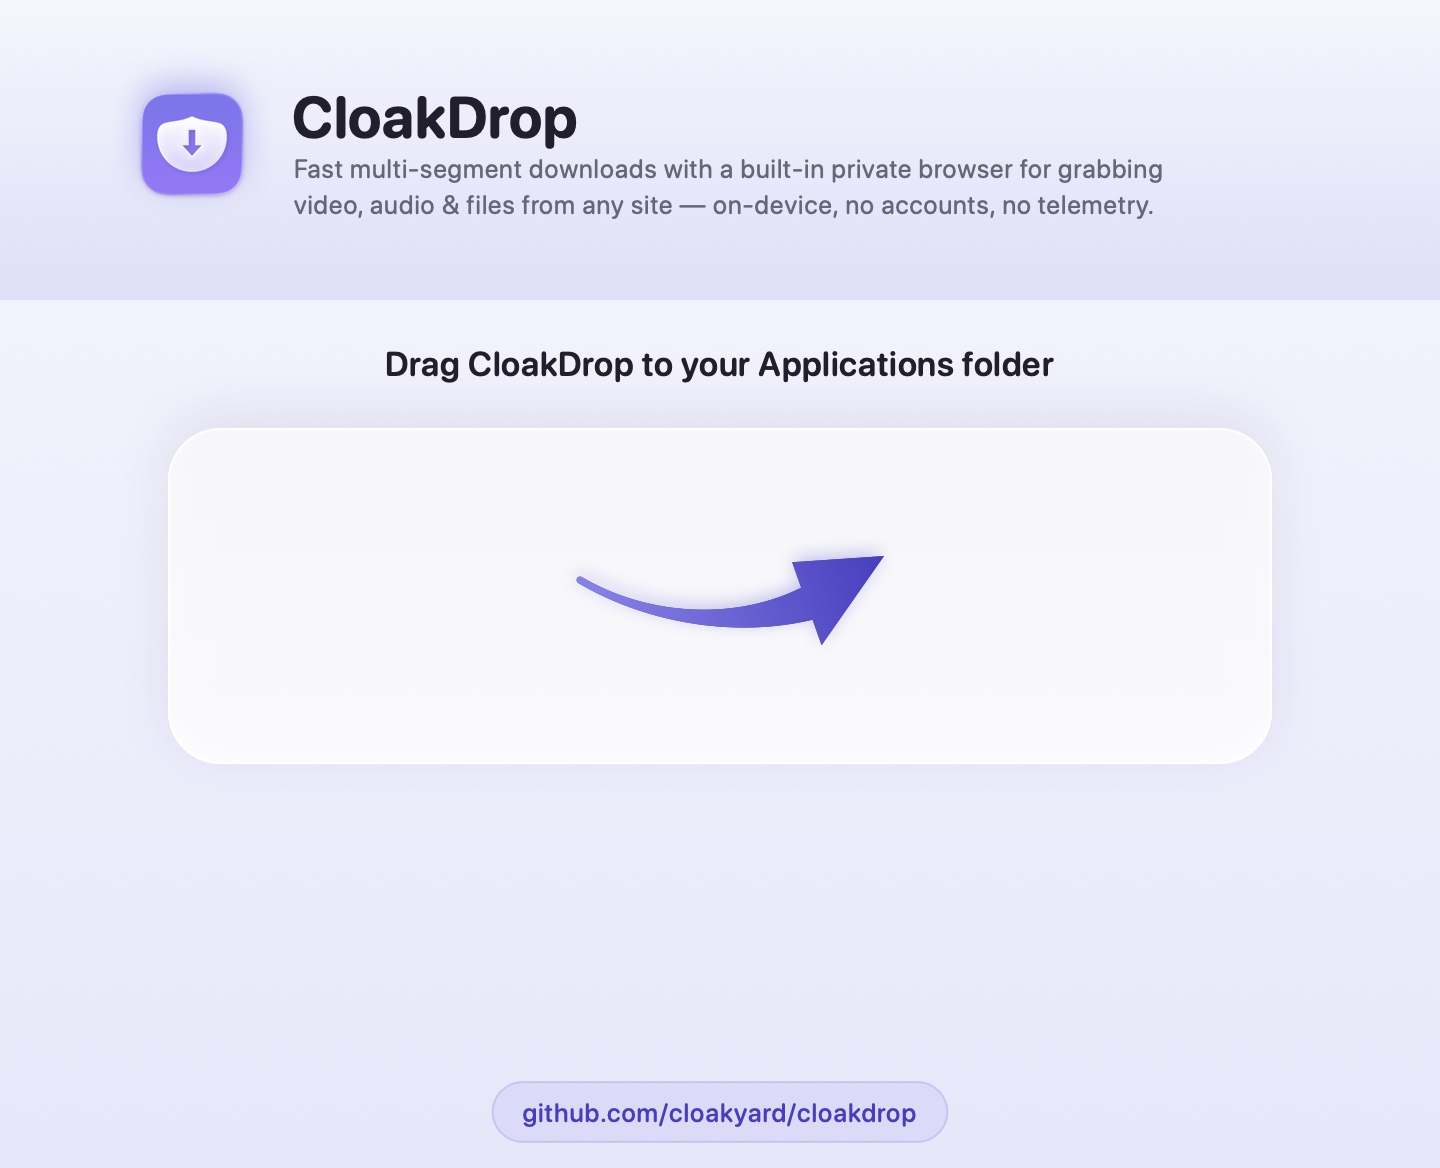
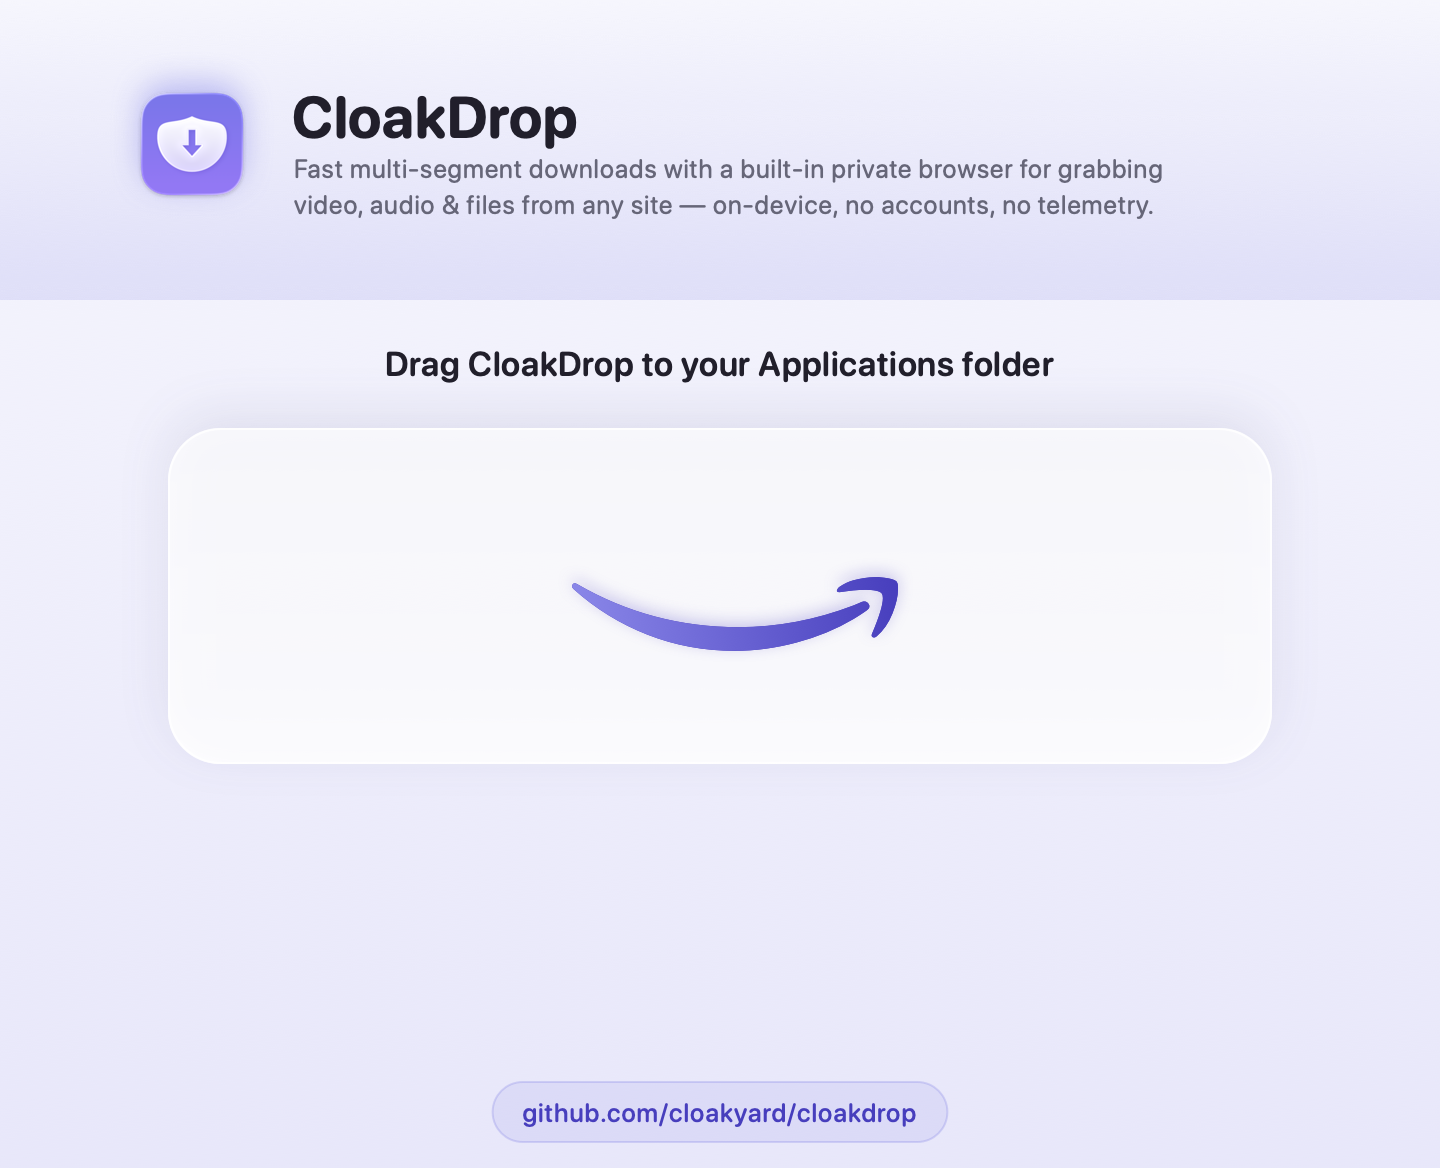
DMG: authentic Amazon-swoosh arrow, recoloured to our gradient
Replace the hand-drawn arrow with the real Amazon smile geometry (parsed from the
logo SVG via a tiny path evaluator) — rounded, tapered, with the curved up-right
arrowhead, not a sharp spike. Filled with the app icon's periwinkle→indigo
gradient (the brand tweak); the letter glyph is dropped.

Changed region(s): [[0.375, 0.4623, 0.625, 0.5548]]

diff --git a/scripts/dmg/background.swift b/scripts/dmg/background.swift
@@ -7,9 +7,9 @@
 //   swift background.swift <app-icon.png> <out.png>
 //
 // Off-centre by design: a left-aligned brand lockup (icon + SF Rounded wordmark + a two-line
-// description) in a soft brand wash across the top, a GitHub link chip top-right, then the centred
-// drag-to-install card with a tapered "smile" arrow (thin tail → thick head, an Amazon-style swoosh
-// in our own periwinkle→indigo — the same gradient as the app icon).
+// description) in a soft brand wash across the top, a GitHub link chip at the foot, then the centred
+// drag-to-install card with an Amazon-style "smile" arrow (the real Amazon swoosh geometry, recoloured
+// in our periwinkle→indigo — the same gradient as the app icon).
 
 import AppKit
 
@@ -95,85 +95,85 @@ func drawGitHubChip(_ text: String, centerY: CGFloat) {
     str.draw(at: NSPoint(x: W / 2 - tsz.width / 2, y: centerY - tsz.height / 2))
 }
 
-/// An Amazon-style "smile" swoosh: a downward-bowing curve that tapers from a thin tail to a thick
-/// head and finishes in a flared arrowhead pointing up-right. Built as a single filled ribbon (top
-/// edge → arrowhead → bottom edge) so the varying width has no seam, then filled with the icon
-/// gradient. Distinct from Amazon's mark: our own curvature, taper, arrowhead, and violet gradient.
+/// Minimal SVG-path evaluator (M/m L/l H/h V/v C/c Z/z — enough for the Amazon swoosh), appending to
+/// `path` after mapping each point through (x·scale+ox, y·scale+oy). Both the SVG and our render use
+/// a y-down space, so no axis flip is needed.
+func appendSVGPath(_ d: String, to path: NSBezierPath, scale: CGFloat, ox: CGFloat, oy: CGFloat) {
+    var tokens: [String] = [], num = ""
+    for ch in d {
+        if ch.isLetter {
+            if !num.isEmpty { tokens.append(num); num = "" }
+            tokens.append(String(ch))
+        } else if ch == "-" {
+            if !num.isEmpty { tokens.append(num) }
+            num = "-"
+        } else if ch == " " || ch == "," || ch == "\n" || ch == "\t" {
+            if !num.isEmpty { tokens.append(num); num = "" }
+        } else {
+            num.append(ch)
+        }
+    }
+    if !num.isEmpty { tokens.append(num) }
+
+    func tf(_ x: CGFloat, _ y: CGFloat) -> NSPoint { NSPoint(x: ox + x * scale, y: oy + y * scale) }
+    var i = 0, cmd = "", cur = CGPoint.zero, sub = CGPoint.zero
+    func n() -> CGFloat { let v = CGFloat(Double(tokens[i]) ?? 0); i += 1; return v }
+    while i < tokens.count {
+        if Double(tokens[i]) == nil { cmd = tokens[i]; i += 1 }   // else: implicit repeat of last command
+        switch cmd {
+        case "M": cur = CGPoint(x: n(), y: n()); sub = cur; path.move(to: tf(cur.x, cur.y)); cmd = "L"
+        case "m": cur = CGPoint(x: cur.x + n(), y: cur.y + n()); sub = cur; path.move(to: tf(cur.x, cur.y)); cmd = "l"
+        case "L": cur = CGPoint(x: n(), y: n()); path.line(to: tf(cur.x, cur.y))
+        case "l": cur = CGPoint(x: cur.x + n(), y: cur.y + n()); path.line(to: tf(cur.x, cur.y))
+        case "H": cur.x = n(); path.line(to: tf(cur.x, cur.y))
+        case "h": cur.x += n(); path.line(to: tf(cur.x, cur.y))
+        case "V": cur.y = n(); path.line(to: tf(cur.x, cur.y))
+        case "v": cur.y += n(); path.line(to: tf(cur.x, cur.y))
+        case "C":
+            let c1 = CGPoint(x: n(), y: n()), c2 = CGPoint(x: n(), y: n()), e = CGPoint(x: n(), y: n())
+            path.curve(to: tf(e.x, e.y), controlPoint1: tf(c1.x, c1.y), controlPoint2: tf(c2.x, c2.y)); cur = e
+        case "c":
+            let c1 = CGPoint(x: cur.x + n(), y: cur.y + n()), c2 = CGPoint(x: cur.x + n(), y: cur.y + n())
+            let e = CGPoint(x: cur.x + n(), y: cur.y + n())
+            path.curve(to: tf(e.x, e.y), controlPoint1: tf(c1.x, c1.y), controlPoint2: tf(c2.x, c2.y)); cur = e
+        case "Z", "z": path.close(); cur = sub
+        default: i += 1
+        }
+    }
+}
+
+// The real Amazon swoosh, straight from the logo SVG (viewBox units): the crescent "smile" body and
+// its up-right arrowhead flick. Rounded, tapered, concave-under arrowhead — not a sharp spike. We
+// recolour it in our violet gradient (the brand tweak) and drop the letter glyph.
+let amazonSmileBody = "M 0.164 64.582 c 0.273 -0.436 0.709 -0.464 1.309 -0.082 c 13.636 7.909 28.473 11.864 44.509 11.864 c 10.691 0 21.245 -1.991 31.664 -5.973 c 0.273 -0.109 0.668 -0.273 1.186 -0.491 c 0.518 -0.218 0.886 -0.382 1.105 -0.491 c 0.818 -0.327 1.459 -0.164 1.923 0.491 c 0.464 0.655 0.314 1.255 -0.45 1.8 c -0.982 0.709 -2.236 1.527 -3.764 2.455 c -4.691 2.782 -9.927 4.936 -15.709 6.464 C 56.155 82.145 50.509 82.909 45 82.909 c -8.509 0 -16.555 -1.486 -24.136 -4.459 c -7.582 -2.973 -14.373 -7.159 -20.373 -12.559 C 0.164 65.618 0 65.345 0 65.073 C 0 64.909 0.054 64.745 0.164 64.582 z"
+let amazonArrowhead = "M 73.227 65.973 c 0.109 -0.218 0.273 -0.436 0.491 -0.655 c 1.364 -0.927 2.673 -1.555 3.927 -1.882 c 2.073 -0.545 4.091 -0.845 6.055 -0.9 c 0.545 -0.055 1.064 -0.027 1.555 0.082 c 2.455 0.218 3.927 0.627 4.418 1.227 C 89.891 64.173 90 64.664 90 65.318 v 0.573 c 0 1.909 -0.518 4.159 -1.555 6.75 c -1.036 2.591 -2.482 4.677 -4.336 6.259 c -0.273 0.218 -0.518 0.327 -0.736 0.327 c -0.109 0 -0.218 -0.027 -0.327 -0.082 c -0.327 -0.164 -0.409 -0.464 -0.245 -0.9 c 2.018 -4.745 3.027 -8.045 3.027 -9.9 c 0 -0.6 -0.109 -1.036 -0.327 -1.309 c -0.545 -0.655 -2.073 -0.982 -4.582 -0.982 c -0.927 0 -2.018 0.055 -3.273 0.164 c -1.364 0.164 -2.618 0.327 -3.764 0.491 c -0.327 0 -0.545 -0.055 -0.655 -0.164 c -0.109 -0.109 -0.136 -0.218 -0.082 -0.327 C 73.145 66.164 73.173 66.082 73.227 65.973 z"
+
+/// The Amazon-style swoosh, positioned so its ~90×21 logo box spans [x0…xEnd] with the tail/arrowhead
+/// ends resting near baseline `y`, filled with the icon's periwinkle→indigo gradient.
 func drawSmileArrow(x0: CGFloat, xEnd: CGFloat, y: CGFloat) {
-    let dx = xEnd - x0
-    let dip: CGFloat = 27          // how far the middle bows below the baseline (the "smile")
-    let rise: CGFloat = 12         // how much the head lifts above the baseline (points up-right)
-    let p0 = CGPoint(x: x0, y: y)
-    let p1 = CGPoint(x: x0 + dx * 0.30, y: y + dip)
-    let p2 = CGPoint(x: xEnd - dx * 0.26, y: y + dip)
-    let p3 = CGPoint(x: xEnd, y: y - rise)
-
-    func bez(_ t: CGFloat) -> CGPoint {
-        let m = 1 - t
-        return CGPoint(x: m*m*m*p0.x + 3*m*m*t*p1.x + 3*m*t*t*p2.x + t*t*t*p3.x,
-                       y: m*m*m*p0.y + 3*m*m*t*p1.y + 3*m*t*t*p2.y + t*t*t*p3.y)
-    }
-    func tangent(_ t: CGFloat) -> CGVector {
-        let m = 1 - t
-        return CGVector(dx: 3*m*m*(p1.x-p0.x) + 6*m*t*(p2.x-p1.x) + 3*t*t*(p3.x-p2.x),
-                        dy: 3*m*m*(p1.y-p0.y) + 6*m*t*(p2.y-p1.y) + 3*t*t*(p3.y-p2.y))
-    }
-    func normal(_ t: CGFloat) -> CGVector {
-        let v = tangent(t); let m = max(hypot(v.dx, v.dy), 0.0001)
-        return CGVector(dx: -v.dy / m, dy: v.dx / m)
-    }
-
-    let tHead: CGFloat = 0.72      // shaft runs 0…tHead; arrowhead spans tHead…1
-    let wTail: CGFloat = 3.5       // shaft width at the tail (thin)
-    let wThick: CGFloat = 17       // shaft width where it meets the arrowhead (thick)
-    let headHalf: CGFloat = 22     // arrowhead half-width at its base (flares beyond the shaft)
-
-    func halfW(_ s: CGFloat) -> CGFloat {   // s in 0…1 along the shaft
-        (wTail + (wThick - wTail) * (s * s)) / 2   // quadratic ease-in: stays thin, thickens near head
-    }
-
-    let steps = 60
-    var top: [CGPoint] = [], bot: [CGPoint] = []
-    for i in 0...steps {
-        let s = CGFloat(i) / CGFloat(steps)
-        let c = bez(tHead * s), n = normal(tHead * s), hw = halfW(s)
-        top.append(CGPoint(x: c.x + n.dx * hw, y: c.y + n.dy * hw))
-        bot.append(CGPoint(x: c.x - n.dx * hw, y: c.y - n.dy * hw))
-    }
-    let cH = bez(tHead), nH = normal(tHead), tip = bez(1)
-    let wingU = CGPoint(x: cH.x + nH.dx * headHalf, y: cH.y + nH.dy * headHalf)
-    let wingL = CGPoint(x: cH.x - nH.dx * headHalf, y: cH.y - nH.dy * headHalf)
+    let scale = (xEnd - x0) / 90.0
+    let ox = x0
+    let oy = y - 65 * scale            // path y≈65 is the ends' level; the belly bows below it
 
     let path = NSBezierPath()
-    path.move(to: top[0])
-    for p in top.dropFirst() { path.line(to: p) }   // top edge, tail → head
-    path.line(to: wingU); path.line(to: tip); path.line(to: wingL)   // arrowhead
-    for p in bot.reversed() { path.line(to: p) }     // bottom edge, head → tail
-    // Rounded tail cap so the thin start is soft, not a blunt flat edge.
-    let c0 = bez(0), n0 = normal(0), hw0 = halfW(0), tv = tangent(0)
-    let tm = max(hypot(tv.dx, tv.dy), 0.0001)
-    let back = CGVector(dx: -tv.dx / tm, dy: -tv.dy / tm)
-    for k in 1...8 {
-        let th = -CGFloat.pi / 2 + CGFloat.pi * CGFloat(k) / 8
-        path.line(to: CGPoint(x: c0.x + cos(th) * back.dx * hw0 + sin(th) * n0.dx * hw0,
-                              y: c0.y + cos(th) * back.dy * hw0 + sin(th) * n0.dy * hw0))
-    }
-    path.close()
+    path.windingRule = .nonZero
+    appendSVGPath(amazonSmileBody, to: path, scale: scale, ox: ox, oy: oy)
+    appendSVGPath(amazonArrowhead, to: path, scale: scale, ox: ox, oy: oy)
 
     let ctx = NSGraphicsContext.current!
     ctx.saveGraphicsState()
     let shadow = NSShadow()
-    shadow.shadowColor = arrowDeep.withAlphaComponent(0.30)
-    shadow.shadowBlurRadius = 9
+    shadow.shadowColor = arrowDeep.withAlphaComponent(0.28)
+    shadow.shadowBlurRadius = 8
     shadow.shadowOffset = NSSize(width: 0, height: -2)
     shadow.set()
     arrowDeep.setFill()   // solid base beneath the gradient so no anti-aliased seam shows through
     path.fill()
     ctx.restoreGraphicsState()
-    // Icon gradient, clipped to the single ribbon: light tail → deep head, tilted slightly down-right.
+    // Icon gradient, clipped to the swoosh: light tail (left) → deep head (right).
     ctx.saveGraphicsState()
     path.addClip()
-    NSGradient(colors: [arrowLight, arrowDeep])!.draw(in: path.bounds, angle: -16)
+    NSGradient(colors: [arrowLight, arrowDeep])!.draw(in: path.bounds, angle: -6)
     ctx.restoreGraphicsState()
 }
 
@@ -214,10 +214,10 @@ let image = NSImage(size: NSSize(width: W, height: H), flipped: true) { _ in
     // Framed well behind the drag-to-install icon row (Finder overlays the real icons on top).
     drawCard(NSRect(x: 84, y: 214, width: 552, height: 168))    // install row
 
-    // Instruction, then the tapered smile arrow bridging the app icon and the Applications alias
+    // Instruction, then the Amazon-style smile arrow bridging the app icon and the Applications alias
     // (Finder places both at y=290 inside the card).
     drawInstruction("Drag CloakDrop to your Applications folder", centerY: 182)
-    drawSmileArrow(x0: 290, xEnd: 442, y: 290)
+    drawSmileArrow(x0: 286, xEnd: 449, y: 293)
 
     // "Read Me.txt" (placed by Finder at y=458) sits below the card; the GitHub chip anchors the foot.
 
